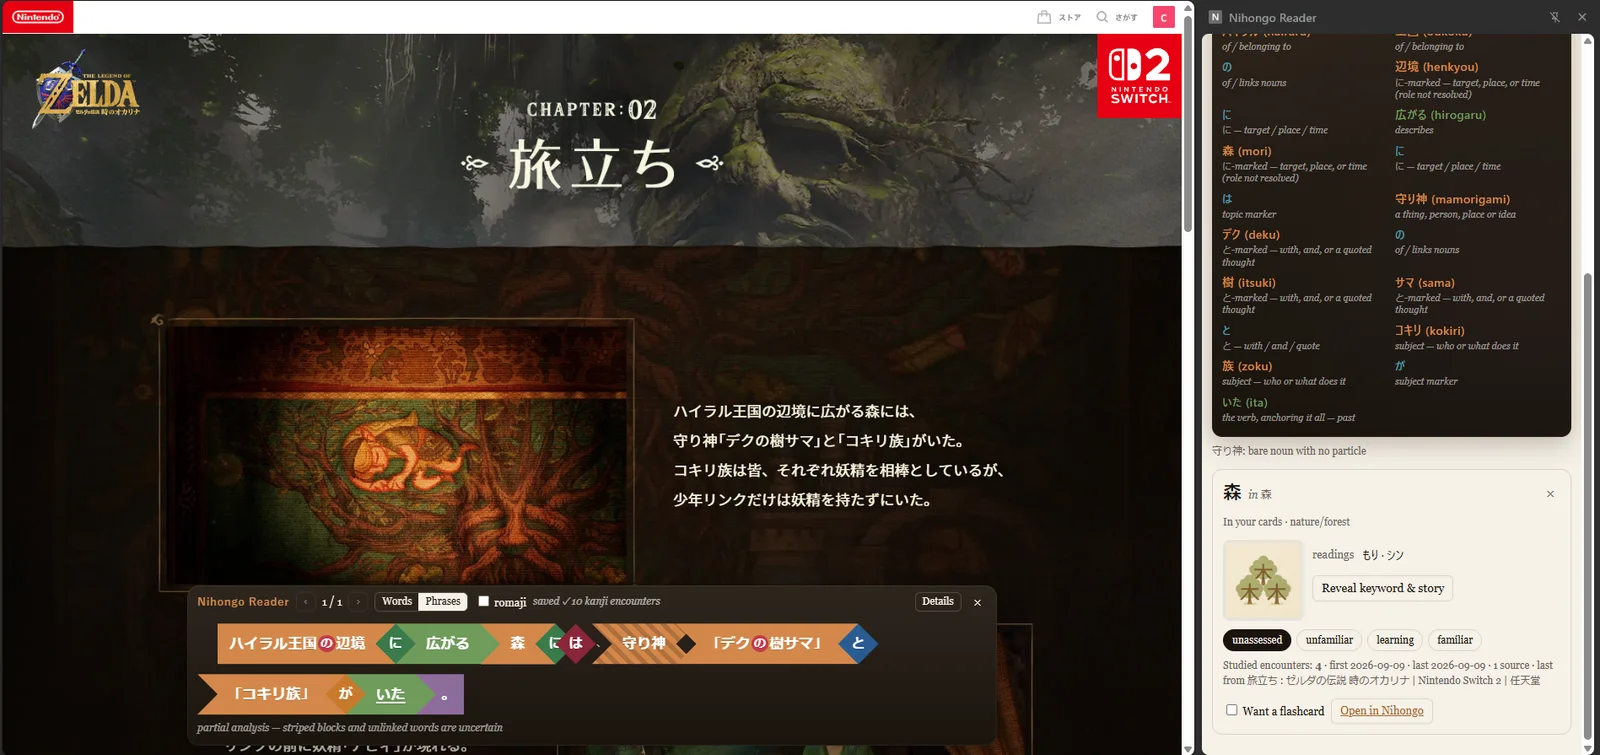
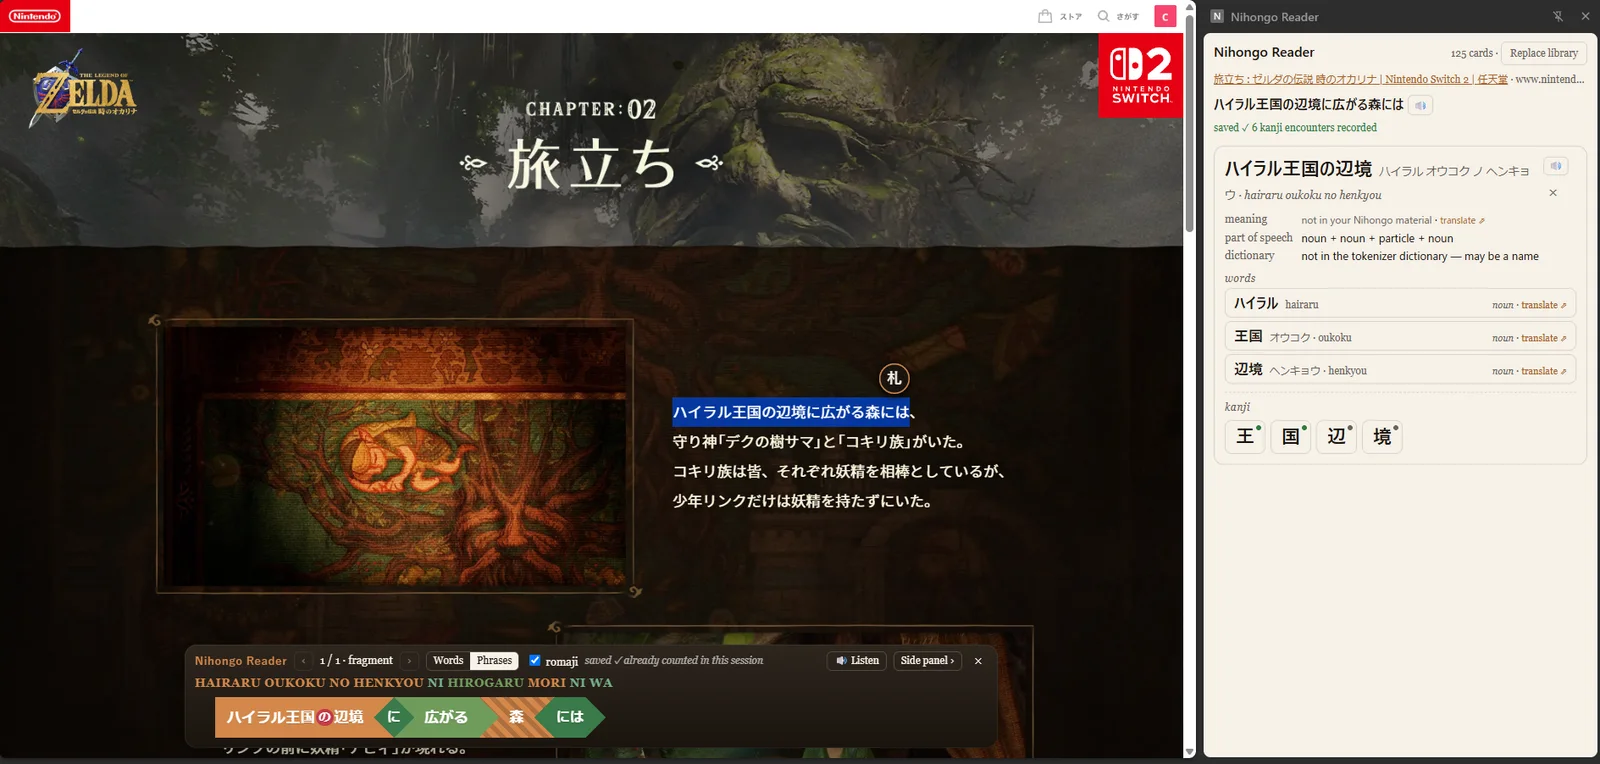
Nihongo gallery: three better shots
reader      the capture that shows the whole loop at once — the selected
              line, the 札 button beside it, the bar taking the sentence
              apart, and the panel listing the words and their kanji
  sentence    the block diagram with its legend, so the shapes are named:
              "I watch anime with my cute cat"
  card        the 木 flashcard, where the picture is the mnemonic, instead
              of the review screen

A card is taller than it is wide, so .is-tall caps the image at 430px and
centres it; the row stays level with its landscape neighbour.

diff --git a/nihongo.html b/nihongo.html
@@ -266,6 +266,8 @@
   }
   .jp-shot { margin: 0; }
   .jp-shot.is-wide { grid-column: 1 / -1; }
+  /* a card is taller than it is wide: cap it so it sits level with its neighbour */
+  .jp-shot.is-tall img { max-height: 430px; width: auto; margin: 0 auto; }
   .jp-shot img {
     display: block;
     width: 100%;
@@ -450,12 +452,12 @@
 
     <div class="jp-shots">
       <figure class="jp-shot is-wide">
-        <img src="./nihongo/images/showcase/reader-on-zelda.webp" alt="The Nihongo Reader extension open on a Japanese Zelda page: a floating bar at the bottom shows the sentence as coloured blocks, and a side panel explains each word." loading="lazy" width="1600" height="755" />
-        <figcaption><b>The reader, out in the wild.</b> A chapter page from 時のオカリナ, read in place. The bar carries the sentence; the panel carries my cards.</figcaption>
+        <img src="./nihongo/images/showcase/reader-on-zelda.webp" alt="The Nihongo Reader extension open on a Japanese Zelda page: a selected sentence with the 札 button beside it, a floating bar showing the sentence as coloured blocks, and a side panel listing the words and their kanji." loading="lazy" width="1600" height="764" />
+        <figcaption><b>The reader, out in the wild.</b> A chapter page from 時のオカリナ. Select a line, tap 札, and the bar takes the sentence apart while the panel lists the words, their readings and every kanji inside them.</figcaption>
       </figure>
       <figure class="jp-shot is-wide">
-        <img src="./nihongo/images/showcase/reader-blocks.webp" alt="A close-up of the reader's block row: ハイラル王国の辺境 に 広がる 森 には, each word a coloured chevron and each particle a diamond." loading="lazy" width="1400" height="286" />
-        <figcaption><b>One sentence, taken apart.</b> Nouns, verbs and particles get their own shape and colour, the same language the grammar lessons use.</figcaption>
+        <img src="./nihongo/images/showcase/sentence-blocks.webp" alt="A sentence diagram for 私は私の可愛い猫とアニメを見る: each word is a coloured chevron, each particle a diamond, with a legend naming the role of each piece." loading="lazy" width="1400" height="460" />
+        <figcaption><b>One sentence, taken apart.</b> &ldquo;I watch anime with my cute cat.&rdquo; Words are chevrons, particles are diamonds, and the verb closes the line. The reader draws the pages you visit in this same alphabet.</figcaption>
       </figure>
       <figure class="jp-shot">
         <img src="./nihongo/images/showcase/vocabulary-fruits.webp" alt="The vocabulary section showing a grid of illustrated fruit cards with Japanese names and taste tags." loading="lazy" width="1600" height="800" />
@@ -465,9 +467,9 @@
         <img src="./nihongo/images/showcase/textures.webp" alt="The textures world: a row of texture words above an illustrated card for さくさく with a sawtooth line drawing." loading="lazy" width="1147" height="869" />
         <figcaption><b>Textures.</b> Each texture word is drawn as the line it feels like: a soft wave for もちもち, a sawtooth for さくさく.</figcaption>
       </figure>
-      <figure class="jp-shot">
-        <img src="./nihongo/images/showcase/flashcards-review.webp" alt="A flashcard under review showing the kanji 日 beside its mnemonic picture, with spaced-repetition buttons underneath." loading="lazy" width="1600" height="804" />
-        <figcaption><b>Review.</b> The card, its picture, its readings, and four honest answers about how it went.</figcaption>
+      <figure class="jp-shot is-tall">
+        <img src="./nihongo/images/showcase/kanji-tree.webp" alt="A flashcard for the kanji 木: an illustration of a tree whose trunk and branches are the character itself, with the readings き and ボク and the meaning tree / wood." loading="lazy" width="539" height="745" />
+        <figcaption><b>A card, front to back.</b> The picture is the mnemonic: 木 is a tree, drawn as the character it is, with its readings and meaning underneath.</figcaption>
       </figure>
       <figure class="jp-shot">
         <img src="./nihongo/images/showcase/kanji-card.webp" alt="A kanji detail card for 色 showing large stroke-order artwork and its readings." loading="lazy" width="1144" height="667" />
